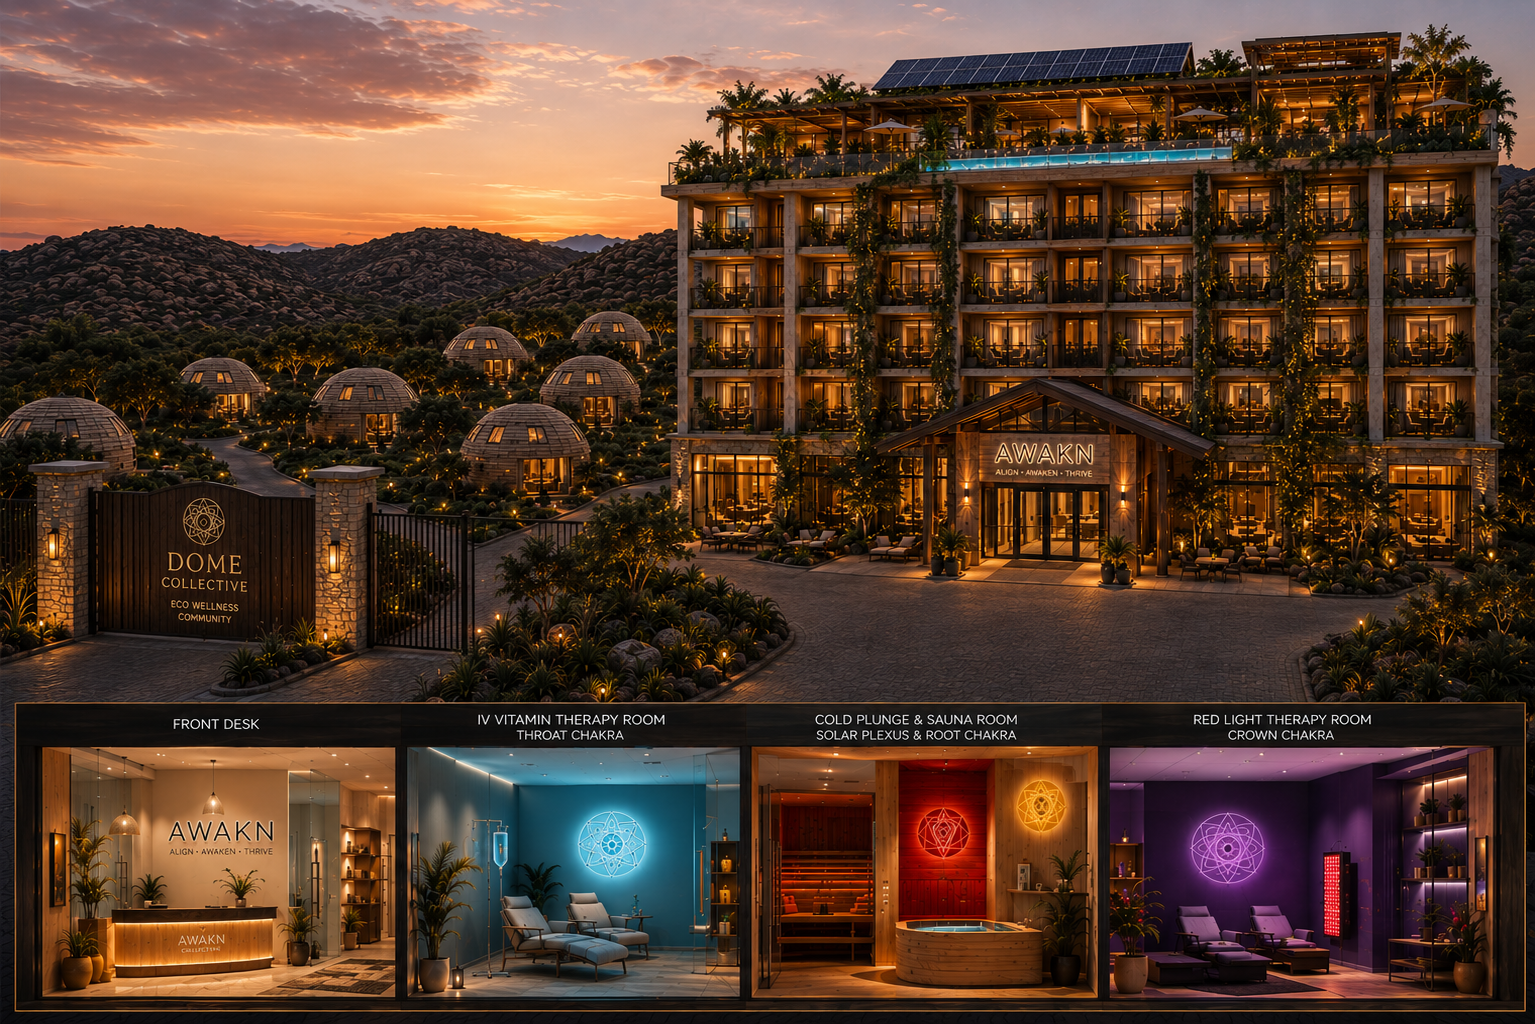
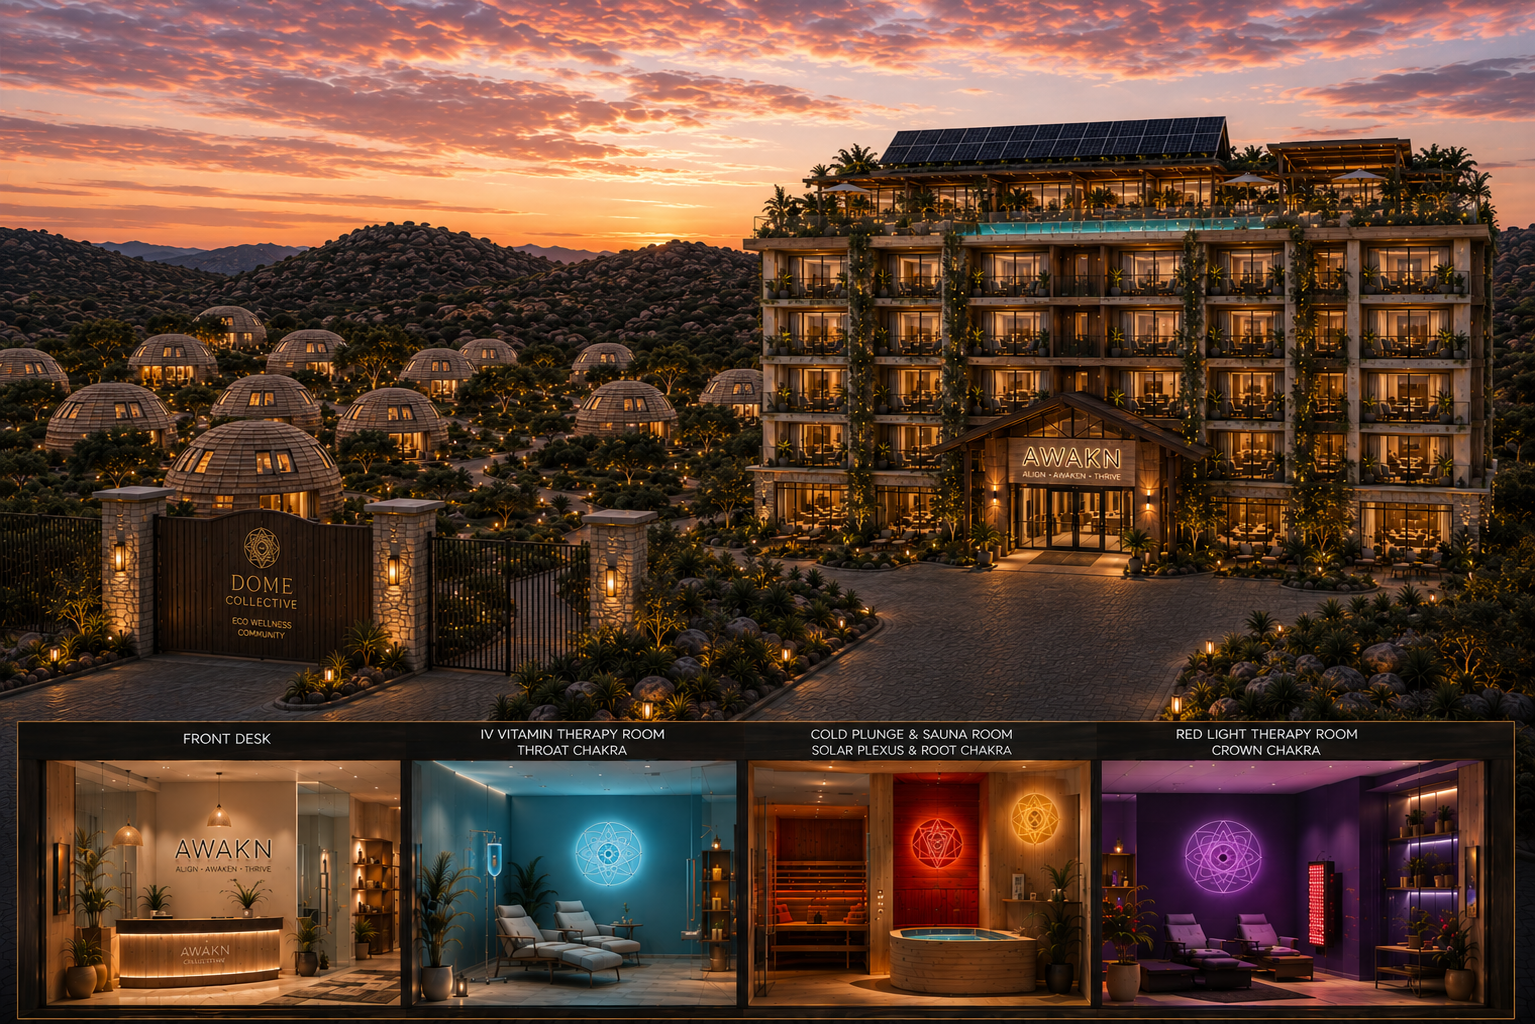
Investor deck: swap Amenities Center + social image to wider apts-domes render

diff --git a/investor-presentation/index.html b/investor-presentation/index.html
@@ -8,13 +8,13 @@
 <meta property="og:title" content="AWKN Ranch — Investor Overview">
 <meta property="og:description" content="A 12-acre wellness sanctuary in Austin, TX — combining clinical care, ceremony, lodging, and community in one operating ecosystem.">
 <meta property="og:url" content="https://laurenbur2.github.io/awkn-ranch/investor-presentation/">
-<meta property="og:image" content="https://laurenbur2.github.io/awkn-ranch/investor-presentation/images/og-cover.png?v=3">
+<meta property="og:image" content="https://laurenbur2.github.io/awkn-ranch/investor-presentation/images/og-cover.png?v=4">
 <meta property="og:image:width" content="1535">
 <meta property="og:image:height" content="1024">
 <meta name="twitter:card" content="summary_large_image">
 <meta name="twitter:title" content="AWKN Ranch — Investor Overview">
 <meta name="twitter:description" content="A 12-acre wellness sanctuary in Austin, TX.">
-<meta name="twitter:image" content="https://laurenbur2.github.io/awkn-ranch/investor-presentation/images/og-cover.png?v=3">
+<meta name="twitter:image" content="https://laurenbur2.github.io/awkn-ranch/investor-presentation/images/og-cover.png?v=4">
 <link rel="preconnect" href="https://fonts.googleapis.com">
 <link rel="preconnect" href="https://fonts.gstatic.com" crossorigin>
 <link href="https://fonts.googleapis.com/css2?family=Fraunces:ital,opsz,wght@0,9..144,300..700;1,9..144,400&family=Outfit:wght@300;400;500;600&display=swap" rel="stylesheet">
@@ -431,7 +431,7 @@
     <h2 class="reveal">A private sanctuary,<br>for residents only.</h2>
     <p class="lede reveal">A state-of-the-art Amenities Center built exclusively for our living-sanctuary residents — never open to the outside public. Designed with the same sacred geometry and high intention as the domes, it's the heart of the Collective: where true health equals true wealth.</p>
     <figure class="band full reveal">
-      <img src="images/amenities-center.png?v=2" alt="The AWKN Amenities Center — Dome Collective gate, wellness residences, and the front desk, IV vitamin therapy, cold plunge & sauna, and red light therapy rooms" loading="lazy">
+      <img src="images/amenities-center.png?v=3" alt="The AWKN Amenities Center — Dome Collective gate, wellness residences, and the front desk, IV vitamin therapy, cold plunge & sauna, and red light therapy rooms" loading="lazy">
       <figcaption>The Amenities Center — a private, protected wellness sanctuary for residents (rendering).</figcaption>
     </figure>
     <div class="vert">